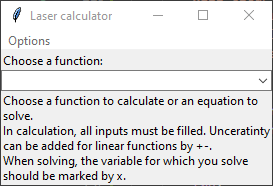
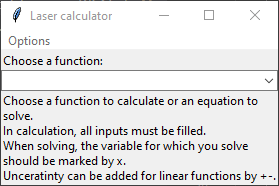
Solving can work with uncertainties now (Issue #2)

diff --git a/laser-calculator.py b/laser-calculator.py
@@ -45,7 +45,7 @@ class Calculator(ttk.Frame):
         self.function_dropdown.bind('<<ComboboxSelected>>', self.on_function_selected)
         frame_choose_function.columnconfigure(0,weight=1)
         frame_choose_function.grid(row=0,column=0,sticky="nsew")
-        instructions = "Choose a function to calculate or an equation to solve.\nIn calculation, all inputs must be filled. Unceratinty can be added for linear functions by +-.\nWhen solving, the variable for which you solve should be marked by x. "
+        instructions = "Choose a function to calculate or an equation to solve.\nIn calculation, all inputs must be filled.\nWhen solving, the variable for which you solve should be marked by x.\nUnceratinty can be added for linear functions by +-."
         self.frame_main = ttk.Frame(self)
         ttk.Label(self.frame_main,text=instructions,wraplength=280,justify="left").grid(row=0,column=0,sticky="ew",columnspan=3)
         self.frame_main.grid(column=0,row=1)
@@ -250,7 +250,8 @@ class Calculator(ttk.Frame):
         # Deciding, what to solve
         for ind,name in enumerate(self.settings[fun]["variables"].keys()):
             I[ind] = sympy.symbols(name)
-            if self.var_values[ind].get().strip() == "x":
+            value = self.var_values[ind].get().strip().replace(",",".")
+            if value == "x":
                 if found_x == False:
                     x = I[ind]
                     resulting_units = self.var_units[ind].get()
@@ -260,7 +261,13 @@ class Calculator(ttk.Frame):
                     self.write("Too many x's.")
                     return 0
             else:
-                str_to_eval[ind] = "{0} = float(self.var_values[{1}].get().replace(',','.')) * self.ureg(self.var_units[{1}].get())".format(name,ind)
+                value = value.split("+-")
+                magnitude = value[0].strip()
+                if len(value) > 1:
+                    error = value[1].strip()
+                    str_to_eval[ind] = "{} = (float({}) * self.ureg(self.var_units[{}].get())).plus_minus(float({}))".format(name,magnitude,ind,error)
+                else:
+                    str_to_eval[ind] = "{} = float({}) * self.ureg(self.var_units[{}].get())".format(name,magnitude,ind)
                 inputs = inputs + f"{self.settings[fun]['variables'][name]['name']} = {self.var_values[ind].get().replace(',','.')} {self.var_units[ind].get()}, "
         if not found_x:
             self.write("One x required.")
@@ -297,8 +304,7 @@ class Calculator(ttk.Frame):
                 if len(value) > 1:
                     error = value[1].strip()     
                     I[self.settings[fun]["inputs"][name]["position"]] = (float(magnitude) * self.ureg(self.inputs_units[ind].get())).plus_minus(float(error)) 
-                else:
-                    error = 0           
+                else:                            
                     I[self.settings[fun]["inputs"][name]["position"]] = (float(magnitude) * self.ureg(self.inputs_units[ind].get())) 
                 inputs = inputs + f"{name} = {self.inputs_values[ind].get().replace(',','.')} {self.inputs_units[ind].get()}, "
             except ValueError:

diff --git a/README.md b/README.md
@@ -27,6 +27,7 @@ In contrast to those, however, you can quickly and simply add anything you need 
       - [Solve equation regime](#solve-equation-regime)
     - [Using uncertainties](#using-uncertainties)
     - [Constants in the function](#constants-in-the-function)
+    - [History](#history)
     - [Starting from `.bat` file with conda](#starting-from-bat-file-with-conda)
   - [Adding new functions](#adding-new-functions)
     - [Structure of the `functions.json` file](#structure-of-the-functionsjson-file)
@@ -101,13 +102,17 @@ If you have a measured quantity with an uncertainty, you can add this error afte
 
 ![Peak intensity with uncertainty](screenshots/peak-intensity-uncertainty.png)
 
-This currently works only for functions in the *calculate regime*, which are linear (meaning no `sin` and similar):
+This works only for linear function (meaning no `sin` and similar):
+- Average power-energy-frequency relation
+- Beam divergence and quality
 - Peak fluence
 - Peak intensity
+- Peak power-energy-duration relation
 - Pulse length-bandwidth relation
 - Critical power for self-focusing (but it doesn't really make sense here)
 - Simplified B-integral
 - Spot size
+- Wavelength matching
 
 ### Constants in the function
 
